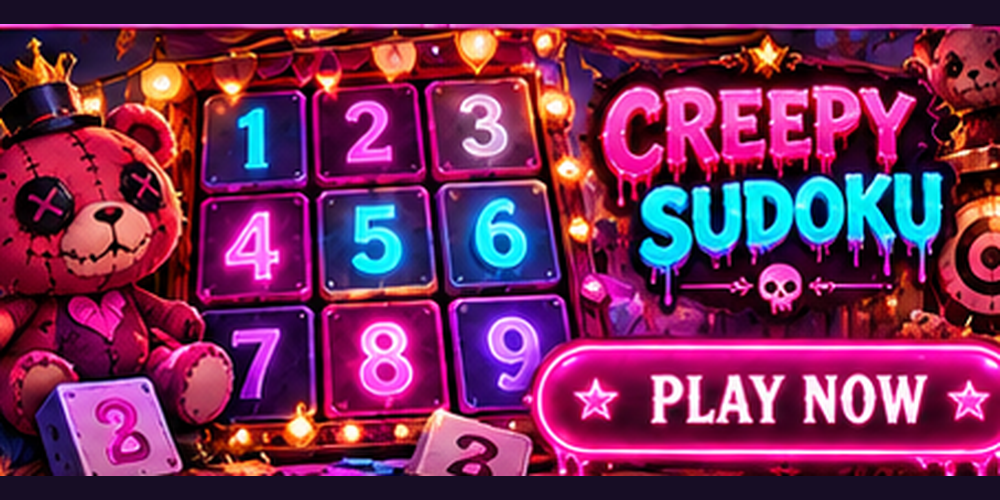
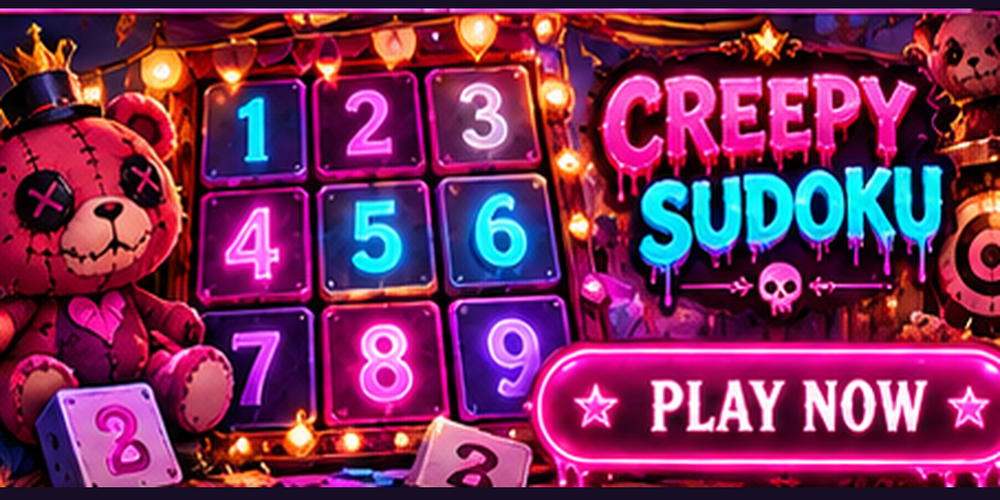
Add files via upload

diff --git a/assets/gb-events.css b/assets/gb-events.css
@@ -87,3 +87,8 @@
 .ev-root .ev-clash-cards .ev-clash-compact .ev-clash-art::after{display:none;}
 .ev-root .ev-clash-cards .ev-clash-compact:focus-visible{outline:2px solid #ff8bdd;outline-offset:3px;}
 .ev-root .ev-clash-cards .ev-clash-compact:active{transform:scale(.985);}
+
+/* 2026-10-28: Edge-to-edge event promo fitting; no inset bands. */
+.ev-root .ev-card .ev-promo-art img{object-fit:cover!important;}
+.ev-root .ev-clash-cards .ev-clash-compact .ev-clash-art{background-size:cover!important;background-color:transparent!important;}
+.ev-root .ev-clash-card .ev-clash-art{background-size:cover!important;}
